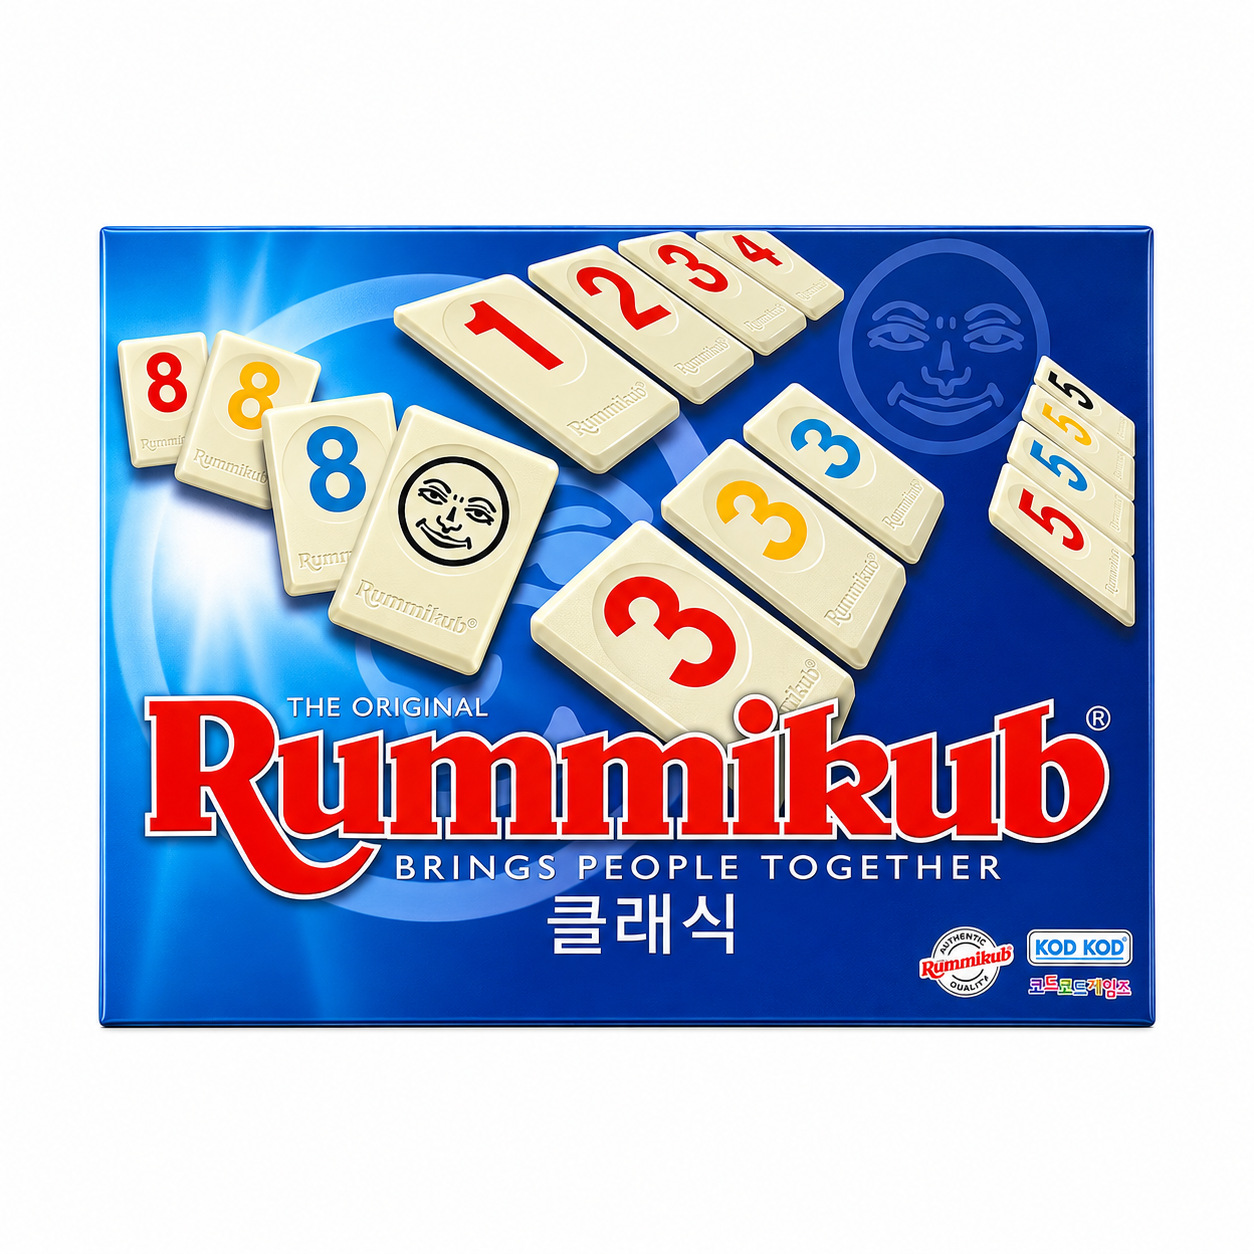
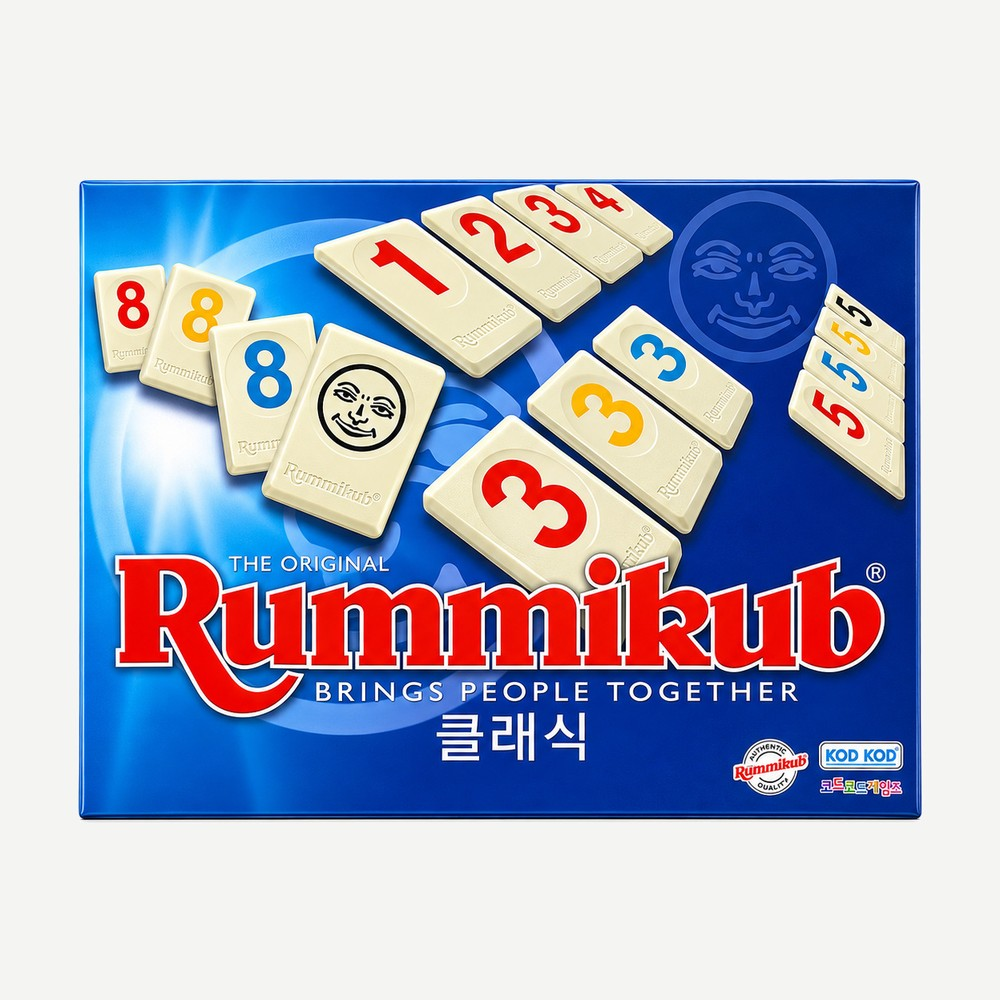
style: 상품 사진 배경을 연회색으로 통일

diff --git a/15_goreuda_common.css b/15_goreuda_common.css
@@ -12,6 +12,7 @@
    #999999  흐린 글자 (안내, 빈 상태)
    #E5E5E5  테두리, 구분선
    #F7F7F7  연한 배경
+   #F4F4F2  상품 사진 배경 (사진 파일 배경도 같은 색)
    #FFFFFF  기본 배경
    #6B3FA0  포인트 (대표 버튼, 선택 상태)
    #5A3388  포인트 버튼 hover
@@ -221,7 +222,7 @@ button, input, select, textarea { font-family: "Noto Sans KR", sans-serif; font-
   height: 255px;
   border-radius: 4px;
   overflow: hidden;
-  background-color: #F7F7F7;
+  background-color: #F4F4F2;   /* 상품 사진 배경과 같은 연회색 */
 }
 .card-thumb img {
   width: 100%;

diff --git a/15_goreuda_detail.css b/15_goreuda_detail.css
@@ -12,7 +12,7 @@
   margin-right: 56px;
   border-radius: 4px;
   overflow: hidden;
-  background-color: #F7F7F7;
+  background-color: #F4F4F2;
 }
 .detail-page .product-image img { width: 100%; height: 100%; object-fit: cover; }
 .detail-page .product-info { flex-grow: 1; }
